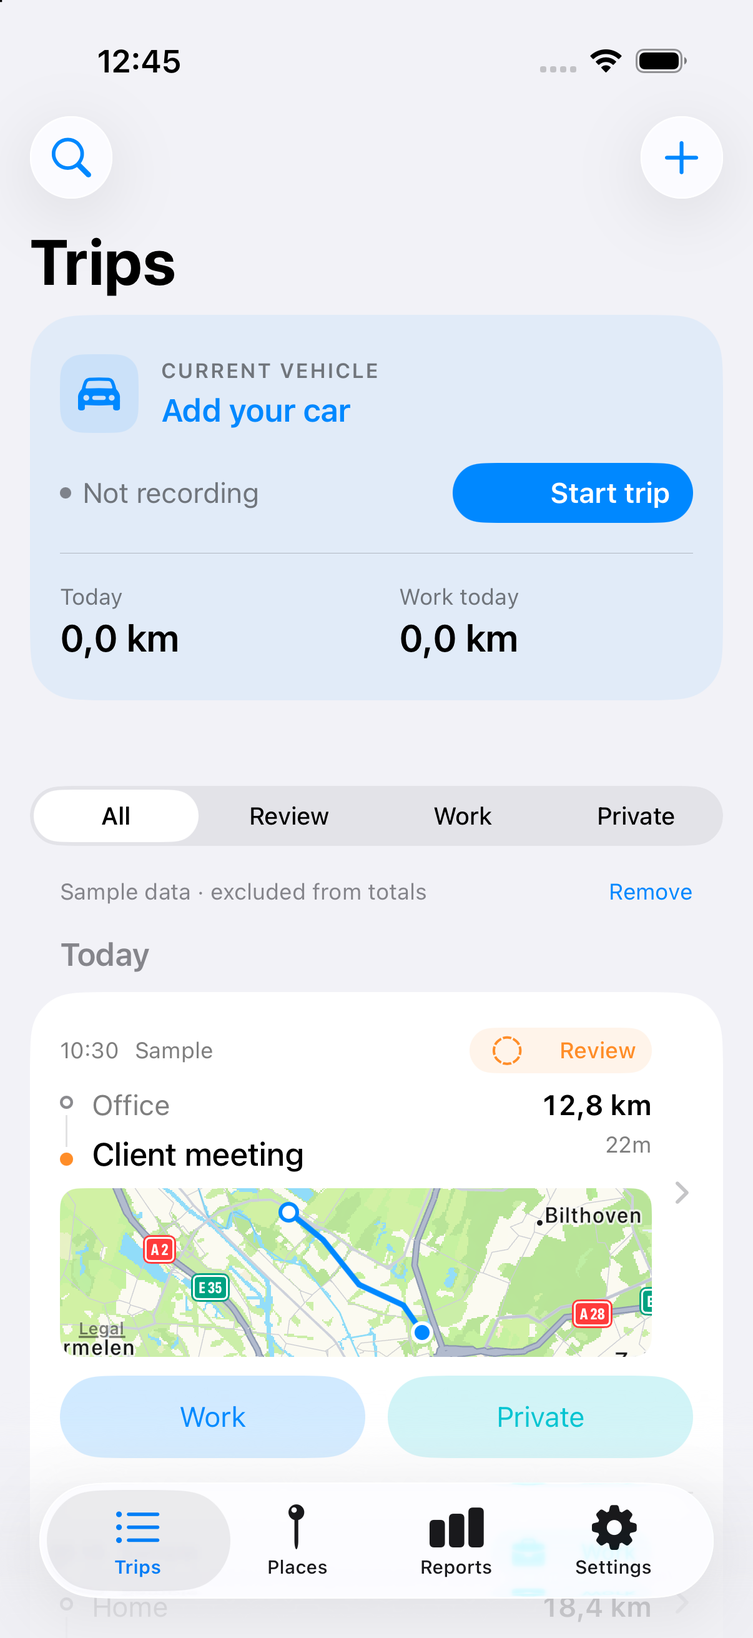
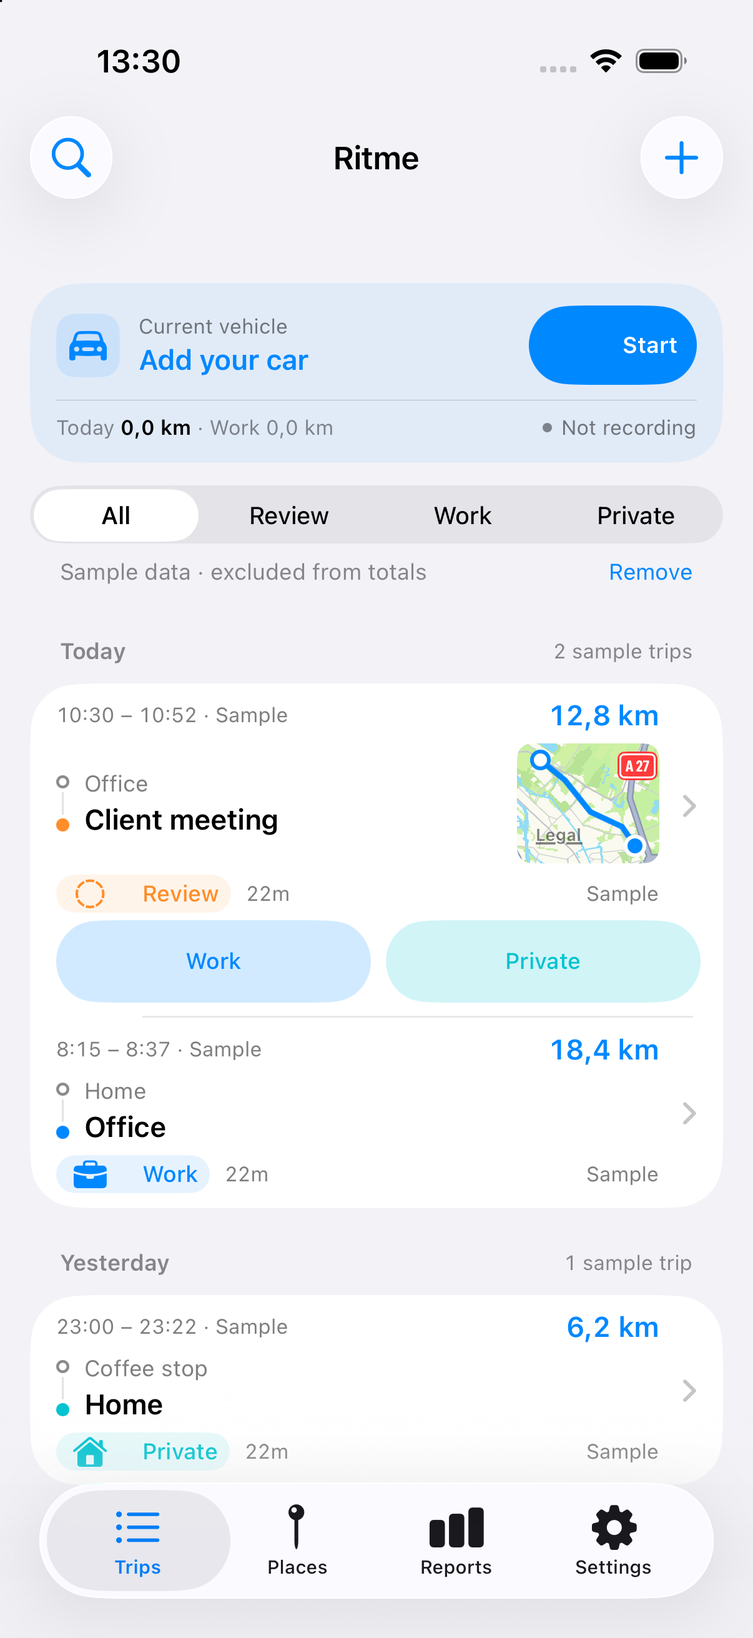
Make trip log denser with compact panels and route thumbnails

diff --git a/Ritme/Sources/TripsView.swift b/Ritme/Sources/TripsView.swift
@@ -2,6 +2,7 @@ import SwiftUI
 import MapKit
 
 struct TripsView: View {
+    @Environment(\.dynamicTypeSize) private var dynamicTypeSize
     @Environment(TripStore.self) private var store
     @Environment(Recorder.self) private var recorder
     @State private var filter = "All"
@@ -32,14 +33,22 @@ struct TripsView: View {
                     }
                 }
                 Section {
-                    VStack(alignment: .leading, spacing: 16) {
+                    VStack(alignment: .leading, spacing: 8) {
                         recordingStatus
                         Divider()
-                        HStack(spacing: 24) {
-                            total("Today", meters: todayTrips.reduce(0) { $0 + $1.distanceMeters })
-                            total("Work today", meters: todayTrips.filter { $0.kind == .work }.reduce(0) { $0 + $1.distanceMeters })
+                        ViewThatFits(in: .horizontal) {
+                            HStack(spacing: 12) {
+                                total("Today", meters: todayTrips.reduce(0) { $0 + $1.distanceMeters }).fixedSize()
+                                Spacer(minLength: 0)
+                                recordingIndicator.fixedSize()
+                            }
+                            VStack(alignment: .leading, spacing: 6) {
+                                total("Today", meters: todayTrips.reduce(0) { $0 + $1.distanceMeters })
+                                recordingIndicator
+                            }
                         }
-                    }.padding(.vertical, 6)
+                    }.padding(.vertical, 2)
+                        .listRowInsets(EdgeInsets(top: 10, leading: 14, bottom: 10, trailing: 14))
                         .listRowBackground(Style.accent.opacity(0.07))
                 }
                 if store.preferences.holidayActive {
@@ -75,19 +84,29 @@ struct TripsView: View {
                 ForEach(days, id: \.self) { day in
                     Section {
                         ForEach(visible.filter { Calendar.current.isDate($0.startedAt, inSameDayAs: day) }) { trip in
-                            VStack(alignment: .leading, spacing: 10) {
-                                NavigationLink { TripDetailView(trip: trip) } label: { TripSummary(trip: trip, showRoute: trip.id == visible.first?.id) }
+                            VStack(alignment: .leading, spacing: 4) {
+                                NavigationLink { TripDetailView(trip: trip) } label: { TripSummary(trip: trip, vehicle: store.vehicleName(for: trip), showRoute: trip.id == visible.first?.id) }
                                 if trip.kind == .unclassified { KindButtons(selected: trip.kind) { store.mark(trip, as: $0) } }
-                            }.padding(.vertical, 4)
+                            }.listRowInsets(EdgeInsets(top: 8, leading: 14, bottom: 8, trailing: 12))
                                 .swipeActions(edge: .leading, allowsFullSwipe: false) {
                                     Button("Work") { store.mark(trip, as: .work) }.tint(Style.accent)
                                     Button("Private") { store.mark(trip, as: .personal) }.tint(.gray)
                                 }
                         }
-                    } header: { Text(dayTitle(day)).textCase(nil) }
+                    } header: {
+                        HStack {
+                            Text(dayTitle(day)).font(.caption.weight(.semibold))
+                            Spacer()
+                            let dayTrips = visible.filter { Calendar.current.isDate($0.startedAt, inSameDayAs: day) }
+                            Text(daySummary(dayTrips))
+                                .font(.caption2).monospacedDigit()
+                        }.textCase(nil)
+                    }
                 }
             }
-            .listStyle(.insetGrouped).navigationTitle("Trips")
+            .listStyle(.insetGrouped).listSectionSpacing(.custom(12))
+            .environment(\.defaultMinListRowHeight, 0)
+            .navigationTitle("Ritme").navigationBarTitleDisplayMode(.inline)
             .toolbar {
                 ToolbarItem(placement: .topBarLeading) { Button { showingSearch.toggle(); if !showingSearch { search = "" } } label: { Image(systemName: "magnifyingglass") }.accessibilityLabel("Search trips") }
                 ToolbarItem(placement: .topBarTrailing) { Button { manual = true } label: { Image(systemName: "plus") }.accessibilityLabel("Add a manual trip") }
@@ -98,14 +117,16 @@ struct TripsView: View {
         }
     }
     private var recordingStatus: some View {
-        VStack(alignment: .leading, spacing: 16) {
-            HStack(spacing: 12) {
-                PlaceSymbol(symbol: "car.fill")
-                VStack(alignment: .leading, spacing: 4) {
-                    Text(store.activeTrip == nil ? "CURRENT VEHICLE" : "RECORDING")
-                        .font(.caption2.weight(.semibold)).tracking(0.8).foregroundStyle(.secondary)
+        VStack(alignment: .leading, spacing: 8) {
+            HStack(spacing: 10) {
+                Image(systemName: "car.fill").font(.system(size: 17, weight: .medium))
+                    .foregroundStyle(Style.accent).frame(width: 34, height: 34)
+                    .background(Style.accent.opacity(0.10), in: RoundedRectangle(cornerRadius: 10))
+                    .accessibilityHidden(true)
+                VStack(alignment: .leading, spacing: 2) {
+                    Text(store.activeTrip == nil ? "Current vehicle" : "Trip in progress").font(.caption2).foregroundStyle(.secondary)
                     if let active = store.activeTrip {
-                        Text(store.vehicleName(for: active)).font(.headline)
+                        Text(store.vehicleName(for: active)).font(.subheadline.weight(.semibold))
                     } else if let vehicle = store.selectedVehicle {
                         Menu {
                             ForEach(store.vehicles) { vehicle in
@@ -119,49 +140,51 @@ struct TripsView: View {
                             Button("Add vehicle", systemImage: "plus") { addVehicle = true }
                         } label: {
                             HStack(spacing: 5) {
-                                Text(vehicle.name).font(.headline).foregroundStyle(.primary).lineLimit(1)
-                                Image(systemName: "chevron.down").font(.caption2.weight(.semibold)).foregroundStyle(Style.accent)
-                            }
-                        }
-                        .buttonStyle(.borderless).accessibilityLabel("Select vehicle, current vehicle \(vehicle.name)")
+                                Text(vehicle.name).font(.subheadline.weight(.semibold)).foregroundStyle(.primary).lineLimit(1)
+                                Image(systemName: "chevron.down").font(.caption2).foregroundStyle(Style.accent)
+                            }.frame(minHeight: 28)
+                        }.buttonStyle(.borderless).accessibilityLabel("Select vehicle, current vehicle \(vehicle.name)")
                     } else {
-                        Button("Add your car") { addVehicle = true }.font(.headline).buttonStyle(.borderless)
+                        Button("Add your car") { addVehicle = true }.font(.subheadline.weight(.semibold)).buttonStyle(.borderless)
                     }
                 }
-                Spacer(minLength: 0)
-            }
-            HStack {
-                HStack(spacing: 6) {
-                    Circle().fill(store.activeTrip == nil ? Color.secondary : Color.green).frame(width: 6, height: 6)
-                    Text(store.activeTrip == nil ? "Not recording" : "Trip in progress").font(.subheadline).foregroundStyle(.secondary)
-                }.accessibilityElement(children: .combine)
-                Spacer()
+                Spacer(minLength: 4)
                 if store.activeTrip == nil {
-                    Button { recorder.start() } label: { Label("Start trip", systemImage: "play.fill").font(.subheadline.weight(.semibold)) }
-                        .buttonStyle(.borderedProminent).accessibilityLabel("Start recording a trip").accessibilityIdentifier("startTrip")
+                    Button { recorder.start() } label: { Label("Start", systemImage: "play.fill").font(.caption.weight(.semibold)).frame(minHeight: 32) }
+                        .buttonStyle(.borderedProminent).controlSize(.small)
+                        .accessibilityLabel("Start recording a trip").accessibilityIdentifier("startTrip")
                 } else {
-                    Button("Finish trip") { confirmStop = true }.buttonStyle(.borderedProminent).accessibilityLabel("Finish recording this trip")
+                    Button("Finish") { confirmStop = true }.font(.caption.weight(.semibold)).frame(minHeight: 44)
+                        .buttonStyle(.borderedProminent).controlSize(.small).accessibilityLabel("Finish recording this trip")
                 }
             }
             if let trip = store.activeTrip {
                 HStack {
-                    Text("\(Format.km(trip.distanceMeters)) km").monospacedDigit()
+                    Text("\(Format.km(trip.distanceMeters)) km").font(.headline).monospacedDigit()
+                    TimelineView(.periodic(from: .now, by: 60)) { _ in Text(Format.duration(trip.duration)).monospacedDigit().font(.caption) }
                     Spacer()
-                    TimelineView(.periodic(from: .now, by: 60)) { _ in Text(Format.duration(trip.duration)).monospacedDigit() }
-                }.font(.title3.weight(.semibold))
-                HStack {
-                    Text(recorder.status).font(.caption).foregroundStyle(.secondary)
-                    Spacer()
-                    Button("Resume GPS") { recorder.resume() }.font(.caption).buttonStyle(.borderless)
+                    Button("Resume GPS") { recorder.resume() }.font(.caption).buttonStyle(.borderless).frame(minHeight: 44)
                 }
+                Text(recorder.status).font(.caption2).foregroundStyle(.secondary)
             }
         }
     }
+    private var recordingIndicator: some View {
+        HStack(spacing: 5) {
+            Circle().fill(store.activeTrip == nil ? Color.secondary : .green).frame(width: 5, height: 5)
+            Text(store.activeTrip == nil ? "Not recording" : "Recording").font(.caption2).foregroundStyle(.secondary)
+        }.accessibilityElement(children: .combine)
+    }
     private func total(_ title: String, meters: Double) -> some View {
-        VStack(alignment: .leading, spacing: 3) {
-            Text(title).font(.caption).foregroundStyle(.secondary)
-            Text("\(Format.km(meters)) km").font(.title3.weight(.semibold)).monospacedDigit()
-        }.frame(maxWidth: .infinity, alignment: .leading)
+        (Text(title + " ").foregroundColor(.secondary)
+         + Text("\(Format.km(meters)) km").bold()
+         + Text(" · Work \(Format.km(todayTrips.filter { $0.kind == .work }.reduce(0) { $0 + $1.distanceMeters })) km").foregroundColor(.secondary))
+            .font(.caption2).monospacedDigit().fixedSize(horizontal: false, vertical: true)
+    }
+    private func daySummary(_ trips: [Trip]) -> String {
+        if trips.allSatisfy(\.isDemo) { return "\(trips.count) sample \(trips.count == 1 ? "trip" : "trips")" }
+        let real = trips.filter { !$0.isDemo }
+        return "\(real.count) \(real.count == 1 ? "trip" : "trips") · \(Format.km(real.reduce(0) { $0 + $1.distanceMeters })) km"
     }
     private func dayTitle(_ day: Date) -> String {
         if Calendar.current.isDateInToday(day) { return "Today" }
@@ -171,7 +194,9 @@ struct TripsView: View {
 }
 
 struct TripSummary: View {
+    @Environment(\.dynamicTypeSize) private var dynamicTypeSize
     var trip: Trip
+    var vehicle = "No vehicle"
     var showRoute = false
     private var previewRect: MKMapRect {
         let rect = trip.points.map { point in
@@ -181,33 +206,50 @@ struct TripSummary: View {
         return rect.insetBy(dx: -max(rect.size.width * 0.2, 500), dy: -max(rect.size.height * 0.2, 500))
     }
     var body: some View {
-        VStack(alignment: .leading, spacing: 8) {
-            HStack {
-                Text(trip.startedAt.formatted(date: .omitted, time: .shortened)).font(.caption).foregroundStyle(.secondary)
-                if trip.isDemo { Text("Sample").font(.caption).foregroundStyle(.secondary) }
-                Spacer()
-                KindBadge(kind: trip.kind)
+        VStack(alignment: .leading, spacing: 6) {
+            if dynamicTypeSize.isAccessibilitySize {
+                VStack(alignment: .leading, spacing: 3) {
+                    timeRange
+                    distance
+                }
+            } else {
+                HStack(spacing: 5) { timeRange; Spacer(minLength: 4); distance }
             }
-            HStack(alignment: .top, spacing: 12) {
+            HStack(alignment: .center, spacing: 10) {
                 RouteStops(origin: trip.origin, destination: trip.destination, color: Style.color(trip.kind))
                     .frame(maxWidth: .infinity, alignment: .leading)
-                VStack(alignment: .trailing, spacing: 5) {
-                    Text("\(Format.km(trip.distanceMeters)) km").font(.subheadline.weight(.semibold)).monospacedDigit()
-                    Text(Format.duration(trip.duration)).font(.caption).foregroundStyle(.secondary)
-                }.fixedSize(horizontal: true, vertical: false)
-            }
-            if showRoute && !trip.points.isEmpty {
+                if showRoute && !trip.points.isEmpty && !dynamicTypeSize.isAccessibilitySize {
                 Map(initialPosition: .rect(previewRect)) {
                     MapPolyline(coordinates: trip.points.map(\.coordinate)).stroke(Style.accent, lineWidth: 3)
                     if let first = trip.points.first { Annotation("", coordinate: first.coordinate) { Circle().fill(.white).frame(width: 9, height: 9).overlay(Circle().stroke(Style.accent, lineWidth: 2)) } }
                     if let last = trip.points.last { Annotation("", coordinate: last.coordinate) { Circle().fill(Style.accent).frame(width: 10, height: 10).overlay(Circle().stroke(.white, lineWidth: 2)) } }
                 }.mapStyle(.standard(elevation: .flat, pointsOfInterest: .excludingAll))
-                    .mapControlVisibility(.hidden).frame(height: 90)
-                    .clipShape(RoundedRectangle(cornerRadius: 10)).allowsHitTesting(false)
+                    .mapControlVisibility(.hidden).frame(width: 76, height: 64)
+                    .clipShape(RoundedRectangle(cornerRadius: 8)).allowsHitTesting(false)
                     .accessibilityHidden(true)
             }
+            }
+            HStack(spacing: 8) {
+                KindBadge(kind: trip.kind)
+                Text(Format.duration(trip.duration)).monospacedDigit()
+                if vehicle != "No vehicle" { Label(vehicle, systemImage: "car.fill").lineLimit(1) }
+                Spacer(minLength: 0)
+                Text(trip.isDemo ? "Sample" : trip.source == "Manual" ? "Manual" : "GPS").font(.caption2)
+            }.font(.caption2).foregroundStyle(.secondary)
         }.accessibilityElement(children: .combine)
     }
+    private var timeRange: some View {
+        Text(trip.startedAt.formatted(date: .omitted, time: .shortened)
+             + (trip.endedAt.map { " – " + $0.formatted(date: .omitted, time: .shortened) } ?? "")
+             + (trip.isDemo ? " · Sample" : ""))
+            .font(.caption2).foregroundStyle(.secondary).monospacedDigit()
+    }
+    private var distance: some View {
+        Text("\(Format.km(trip.distanceMeters)) km")
+            .font(.subheadline.weight(.semibold)).foregroundStyle(Style.accent).monospacedDigit()
+            .fixedSize(horizontal: true, vertical: false)
+    }
+
 }
 
 struct TripDetailView: View {
@@ -228,10 +270,13 @@ struct TripDetailView: View {
                 }
             }
             Section("Route") {
-                LabeledContent("From", value: trip.origin)
-                LabeledContent("To", value: trip.destination)
-                LabeledContent("Distance", value: "\(Format.km(trip.distanceMeters)) km")
-                LabeledContent("Duration", value: Format.duration(trip.duration))
+                RouteStops(origin: trip.origin, destination: trip.destination, color: Style.color(trip.kind))
+                    .padding(.vertical, 4)
+                HStack(spacing: 16) {
+                    metric("Distance", value: "\(Format.km(trip.distanceMeters)) km")
+                    metric("Duration", value: Format.duration(trip.duration))
+                    metric("GPS points", value: "\(trip.points.count)")
+                }.padding(.vertical, 2)
                 if trip.points.isEmpty { Text(trip.source == "Manual" ? "Distance entered manually. No recorded route." : "No usable GPS points were recorded.").font(.footnote).foregroundStyle(.secondary) }
             }
             Section {
@@ -246,8 +291,14 @@ struct TripDetailView: View {
                 TextField("Client or trip purpose", text: $trip.notes, axis: .vertical).lineLimit(3...6).onChange(of: trip.notes) { store.save() }
             }
             Section { Button("Delete trip", role: .destructive) { deleting = true } }
-        }.navigationTitle("Trip details").navigationBarTitleDisplayMode(.inline)
+        }.listSectionSpacing(.custom(12)).navigationTitle("Trip details").navigationBarTitleDisplayMode(.inline)
             .confirmationDialog("Delete this trip permanently?", isPresented: $deleting, titleVisibility: .visible) { Button("Delete trip", role: .destructive) { store.remove(trip); dismiss() } }
+    }
+    private func metric(_ label: String, value: String) -> some View {
+        VStack(alignment: .leading, spacing: 3) {
+            Text(label).font(.caption2).foregroundStyle(.secondary)
+            Text(value).font(.subheadline.weight(.semibold)).monospacedDigit()
+        }.frame(maxWidth: .infinity, alignment: .leading)
     }
 }
 

diff --git a/Ritme/Sources/Design.swift b/Ritme/Sources/Design.swift
@@ -26,7 +26,7 @@ struct KindBadge: View {
     var body: some View {
         Label(kind.title, systemImage: kind.icon).font(.caption.weight(.medium))
             .foregroundStyle(Style.color(kind))
-            .padding(.horizontal, 8).padding(.vertical, 5)
+            .padding(.horizontal, 6).padding(.vertical, 3)
             .background(Style.color(kind).opacity(0.10), in: Capsule())
     }
 }
@@ -44,13 +44,13 @@ struct KindButtons: View {
     var selected: TripKind
     var action: (TripKind) -> Void
     var body: some View {
-        HStack(spacing: 12) {
+        HStack(spacing: 8) {
             ForEach([TripKind.work, .personal]) { kind in
                 Button { action(kind) } label: {
                     HStack(spacing: 6) {
                         Text(kind.title)
                         if selected == kind { Image(systemName: "checkmark").font(.caption.weight(.semibold)) }
-                    }.font(.subheadline).frame(maxWidth: .infinity, minHeight: 30)
+                    }.font(.caption.weight(.medium)).frame(maxWidth: .infinity, minHeight: 30)
                 }.buttonStyle(.bordered).tint(Style.color(kind))
             }
         }
@@ -73,15 +73,15 @@ struct RouteStops: View {
     var destination: String
     var color: Color
     var body: some View {
-        HStack(spacing: 10) {
-            VStack(spacing: 3) {
+        HStack(spacing: 8) {
+            VStack(spacing: 2) {
                 Circle().strokeBorder(Color.secondary, lineWidth: 1.5).frame(width: 7, height: 7)
-                Rectangle().fill(Color.secondary.opacity(0.25)).frame(width: 1, height: 17)
+                Rectangle().fill(Color.secondary.opacity(0.25)).frame(width: 1, height: 12)
                 Circle().fill(color).frame(width: 7, height: 7)
             }.accessibilityHidden(true)
-            VStack(alignment: .leading, spacing: 7) {
-                Text(origin).font(.subheadline).foregroundStyle(.secondary)
-                Text(destination).font(.body.weight(.medium))
+            VStack(alignment: .leading, spacing: 3) {
+                Text(origin).font(.caption).foregroundStyle(.secondary)
+                Text(destination).font(.subheadline.weight(.semibold))
             }.lineLimit(2)
         }
     }

diff --git a/Ritme/Sources/ReportsView.swift b/Ritme/Sources/ReportsView.swift
@@ -80,7 +80,7 @@ struct ReportsView: View {
                     HStack(alignment: .firstTextBaseline) {
                         VStack(alignment: .leading, spacing: 4) {
                             Text("Total distance").font(.subheadline).foregroundStyle(.secondary)
-                            Text("\(Format.km(trips.reduce(0) { $0 + $1.distanceMeters })) km").font(.largeTitle.weight(.semibold)).monospacedDigit().foregroundStyle(Style.accent)
+                            Text("\(Format.km(trips.reduce(0) { $0 + $1.distanceMeters })) km").font(.title2.weight(.semibold)).monospacedDigit().foregroundStyle(Style.accent)
                         }
                         Spacer()
                         Text("\(trips.count) trips").font(.subheadline).foregroundStyle(.secondary)
@@ -124,7 +124,7 @@ struct ReportsView: View {
                 if store.trips.contains(where: \.isDemo) {
                     Section { Text("Sample trips are excluded from reports and exports.").font(.footnote).foregroundStyle(.secondary) }
                 }
-            }.navigationTitle("Reports")
+            }.listSectionSpacing(.custom(12)).navigationTitle("Reports").navigationBarTitleDisplayMode(.inline)
                 .onChange(of: period) { exportURL = nil }.onChange(of: purpose) { exportURL = nil }.onChange(of: format) { exportURL = nil }
                 .onChange(of: store.revision) { exportURL = nil }
         }

diff --git a/Ritme/Sources/SettingsView.swift b/Ritme/Sources/SettingsView.swift
@@ -39,7 +39,7 @@ struct SettingsView: View {
                     LabeledContent("Version", value: "\(Bundle.main.object(forInfoDictionaryKey: "CFBundleShortVersionString") as? String ?? "—") (\(Bundle.main.object(forInfoDictionaryKey: "CFBundleVersion") as? String ?? "—"))")
                     Link("GitHub", destination: URL(string: "https://github.com/MiranoVerhoef/Ritme")!)
                 } header: { Text("Ritme") } footer: { Text("Development beta") }
-            }.navigationTitle("Settings").sheet(isPresented: $addVehicle) { AddVehicleView() }
+            }.listSectionSpacing(.custom(12)).navigationTitle("Settings").navigationBarTitleDisplayMode(.inline).sheet(isPresented: $addVehicle) { AddVehicleView() }
         }
     }
     private var locationTitle: String {

diff --git a/Ritme/Sources/PlacesView.swift b/Ritme/Sources/PlacesView.swift
@@ -34,7 +34,7 @@ struct PlacesView: View {
                 } footer: {
                     Text("Saved places identify trip destinations and can be used in work rules. Nearby parking is included within each place’s recognition radius.")
                 }
-            }.navigationTitle("Places")
+            }.listSectionSpacing(.custom(12)).navigationTitle("Places").navigationBarTitleDisplayMode(.inline)
                 .toolbar { ToolbarItem(placement: .topBarTrailing) { Button { adding = true } label: { Image(systemName: "plus") }.accessibilityLabel("Add place") } }
                 .sheet(isPresented: $adding) { AddPlaceView() }
         }

diff --git a/Distribution/README.md b/Distribution/README.md
@@ -14,7 +14,7 @@ https://raw.githubusercontent.com/MiranoVerhoef/Ritme/main/altstore-source.json
 
 Choose **Ritme** from the source and install it. Availability of third-party sources depends on your installer and version. The feed includes the exact version, build, IPA byte count, minimum iOS version, screenshots, and location permission descriptions.
 
-Alternatively, download `Ritme-v0.1.1.ipa` from the [GitHub release](https://github.com/MiranoVerhoef/Ritme/releases/tag/v0.1.1), then import it into your sideloading app. The IPA is unsigned; your installer must sign it for your iPhone. With a free Apple account, AltStore Classic installations normally expire after seven days and require refreshing. See the [official AltStore Classic guide](https://faq.altstore.io/altstore-classic/your-altstore) for signing, refresh, and account limits.
+Alternatively, download `Ritme-v0.1.2.ipa` from the [GitHub release](https://github.com/MiranoVerhoef/Ritme/releases/tag/v0.1.2), then import it into your sideloading app. The IPA is unsigned; your installer must sign it for your iPhone. With a free Apple account, AltStore Classic installations normally expire after seven days and require refreshing. See the [official AltStore Classic guide](https://faq.altstore.io/altstore-classic/your-altstore) for signing, refresh, and account limits.
 
 ## What this package includes
 
@@ -38,7 +38,7 @@ xcodebuild -project Ritme.xcodeproj -scheme Ritme -configuration Release \
   -destination 'generic/platform=iOS' -derivedDataPath build/ReleaseDerivedData \
   CODE_SIGNING_ALLOWED=NO build
 python3 Scripts/package_release.py
-python3 Scripts/generate_altstore_source.py build/releases/Ritme-v0.1.1.ipa --date 2026-09-30
+python3 Scripts/generate_altstore_source.py build/releases/Ritme-v0.1.2.ipa --date 2026-09-30
 ```
 
 Update the version/build in the iPhone and Watch Info.plists before a new version. Use that version's IPA filename and release date in the feed command. The packaging script checks the device platform, copies the unsigned build, and removes Watch content only from the distribution copy. Upload the IPA to the matching GitHub release; keep the source feed's download URL and file size consistent with the uploaded asset. Preserve previous version entries when adding future releases.

diff --git a/README.md b/README.md
@@ -1,6 +1,6 @@
 # Ritme
 
-A native iPhone mileage logger with trip recording, Work/Private classification, saved places, work schedules, holiday mode and mileage exports. Built with SwiftUI and SwiftData, using native navigation, a tinted vehicle dashboard, colored purpose labels and a latest-trip route preview. **Ritme is a working name.** All code and artwork are original.
+A native iPhone mileage logger with trip recording, Work/Private classification, saved places, work schedules, holiday mode and mileage exports. Built with SwiftUI and SwiftData, using native navigation, a compact vehicle panel, dense daily trip groups, colored purpose labels and a latest-trip map thumbnail. **Ritme is a working name.** All code and artwork are original.
 
 ## Install the development beta
 
